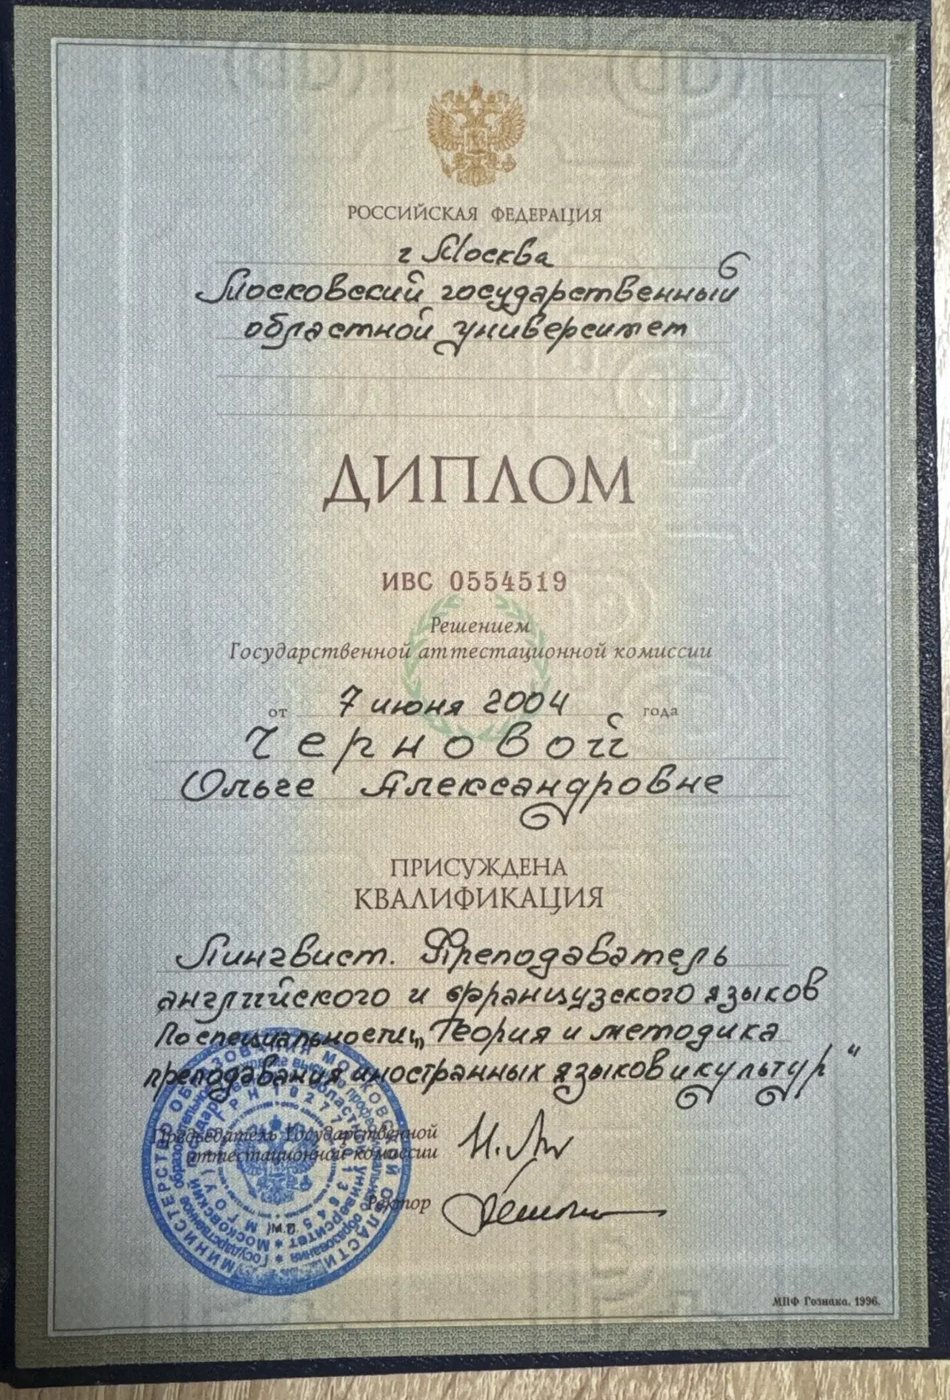
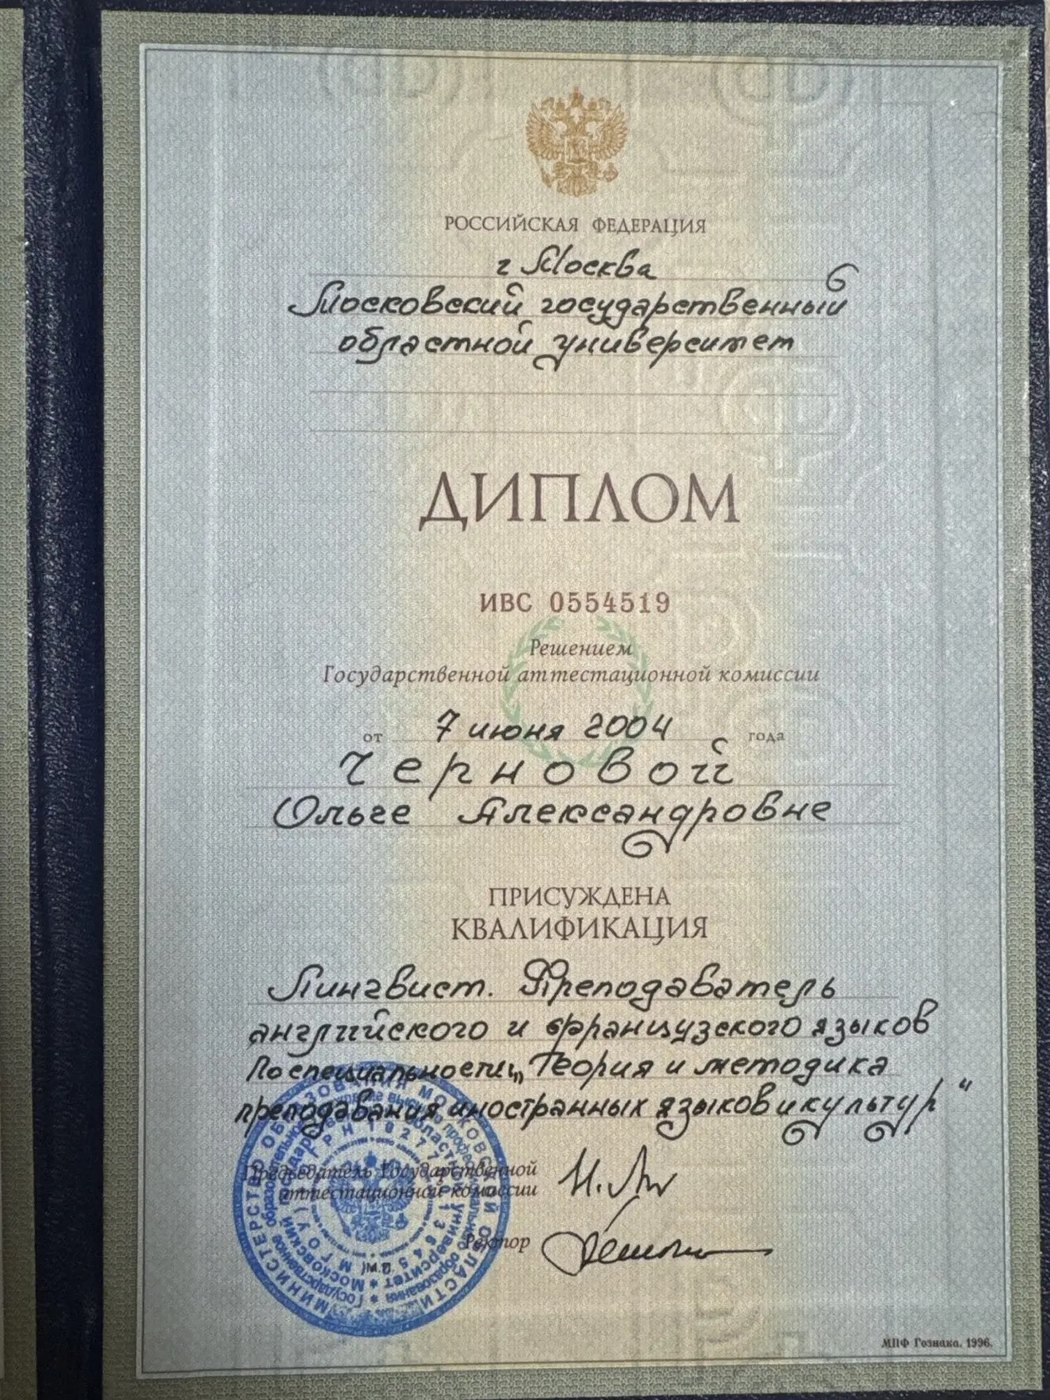
Add files via upload

diff --git a/index.html b/index.html
@@ -229,7 +229,7 @@ section{position:relative}
 .slider{position:relative;display:grid}
 .slide{grid-area:1/1;opacity:0;visibility:hidden;transition:opacity 1s var(--ease),visibility 1s}
 .slide.active{opacity:1;visibility:visible}
-.slide blockquote{margin:0;font-family:var(--serif);font-weight:300;font-size:clamp(26px,3vw,44px);line-height:1.3;max-width:1080px}
+.slide blockquote{margin:0;font-family:var(--serif);font-weight:300;font-size:clamp(24px,2.5vw,38px);line-height:1.3;max-width:1080px}
 .slide blockquote::before{content:"“";display:block;font-size:1.9em;line-height:.6;color:var(--brass);height:.45em}
 .slide .who{margin-top:34px;font-size:13px;letter-spacing:.16em;text-transform:uppercase}
 .slide .who span{color:var(--muted);margin-left:10px}
@@ -240,6 +240,25 @@ section{position:relative}
 .slider__bar{flex:1;height:1px;background:var(--line);position:relative;max-width:360px}
 .slider__bar i{position:absolute;inset:0;background:var(--brass);transform-origin:left;transform:scaleX(0)}
 .slider__bar i.run{animation:bar 8s linear forwards}
+.slider__nav .slider__add{margin-left:auto;width:auto;height:auto;border-radius:0;display:inline-flex;border-color:var(--forest);color:var(--forest)}
+.slider__nav .slider__add:hover{background:transparent;color:var(--ivory);border-color:var(--brass)}
+.rmodal{position:fixed;inset:0;z-index:100;background:rgba(14,20,18,.82);display:grid;place-items:center;padding:24px;overflow-y:auto;opacity:0;visibility:hidden;transition:opacity .5s var(--ease),visibility .5s}
+.rmodal.open{opacity:1;visibility:visible}
+.rmodal__box{position:relative;width:100%;max-width:560px;margin:auto;transform:translateY(24px);transition:transform .7s var(--ease)}
+.rmodal.open .rmodal__box{transform:none}
+.rmodal__close{position:absolute;top:18px;right:20px;width:40px;height:40px;font-size:16px;color:var(--muted);transition:color .4s}
+.rmodal__close:hover{color:var(--ink)}
+.rmodal__box>.rmodal__hint{margin:-10px 0 18px;font-size:13px;color:var(--muted)}
+.rmodal__box>.rmodal__hint.err{color:#a4452c}
+.rate-in{border:0;margin:0 0 18px;padding:0}
+.rate-in legend{padding:0;font-size:11.5px;letter-spacing:.14em;text-transform:uppercase;color:var(--brass)}
+.rate-in__stars{display:inline-flex;flex-direction:row-reverse;gap:6px;margin-top:8px}
+.rate-in__stars input{position:absolute;opacity:0;pointer-events:none}
+.rate-in__stars label{font-size:32px;line-height:1;color:var(--line);cursor:pointer;transition:color .3s}
+.rate-in__stars input:checked~label{color:var(--brass)}
+.rate-in__stars:hover input~label{color:var(--line)}
+.rate-in__stars input+label:hover,.rate-in__stars input+label:hover~label{color:var(--brass)}
+.rate-in__stars input:focus-visible+label{outline:1px solid var(--brass);outline-offset:2px}
 @keyframes bar{to{transform:scaleX(1)}}
 
 /* ---------- pricing ---------- */
@@ -355,7 +374,8 @@ section{position:relative}
   .prices li{flex-wrap:wrap;gap:4px 12px}
   .prices .dots{display:none}
   .prices .pr{width:100%}
-  .slider__nav{gap:16px}
+  .slider__nav{gap:16px;flex-wrap:wrap}
+  .slider__nav .slider__add{margin-left:0;width:100%;justify-content:center}
 }
 @media (max-width:560px){
   .creds__docs{grid-template-columns:1fr}
@@ -456,7 +476,7 @@ section{position:relative}
 <section class="band">
   <div class="wrap stats">
     <div class="stat rv"><b data-count="25">0</b><span>лет преподавательской практики</span></div>
-    <div class="stat rv rv-d1"><b data-count="4.9" data-dec="2">0</b><span>средняя оценка по отзывам учеников</span></div>
+    <div class="stat rv rv-d1"><b data-count="5" data-dec="1" id="statAvg">0</b><span>средняя оценка по отзывам учеников</span></div>
     <div class="stat rv rv-d2"><b>к.ф.н.</b><span>кандидат филологических наук с&nbsp;2009 года</span></div>
     <div class="stat rv rv-d3"><b data-count="9">0</b><span>программ — от YLE до TOEFL</span></div>
   </div>
@@ -538,23 +558,57 @@ section{position:relative}
   <div class="wrap">
     <div class="reviews__head">
       <div><span class="eyebrow rv">Отзывы</span><h2 class="rv rv-d1" style="margin-top:22px">Слово <em>ученикам</em></h2></div>
-      <div class="rating rv rv-d2"><b>4,90</b><div><div class="stars">★★★★★</div><small>средняя оценка<br>по 20 отзывам учеников</small></div></div>
+      <div class="rating rv rv-d2"><b id="rateAvg">5,0</b><div><div class="stars" id="rateStars">★★★★★</div><small>средняя оценка<br>по <span id="rateNum">5</span> <span id="rateWord">отзывам</span> учеников</small></div></div>
     </div>
     <div class="slider rv" id="slider">
-      <div class="slide active"><blockquote>Уроки проходят всегда в&nbsp;положительном настрое, в&nbsp;комфортной обстановке. Ребёнку нравится общение с&nbsp;педагогом, знания он получает в&nbsp;лёгкой, доступной форме — и&nbsp;это уже положительно отражается на успеваемости в&nbsp;школе.</blockquote><div class="who">Наталия <span>Английский язык</span></div></div>
-      <div class="slide"><blockquote>Преподаватель грамотный, ребёнку было комфортно заниматься. Мы считаем, что она внесла очень хороший вклад в&nbsp;результат. Её личные и&nbsp;профессиональные качества — на высоком уровне.</blockquote><div class="who">Елена <span>Подготовка к ЕГЭ</span></div></div>
-      <div class="slide"><blockquote>Она отзывчива, профессиональна, у&nbsp;неё есть стремление сделать всё как можно лучше. Методы преподавания очень современные — много разговорной речи, аудирование. Мой ребёнок начал разговаривать на английском.</blockquote><div class="who">Ольга <span>Английский язык</span></div></div>
-      <div class="slide"><blockquote>Ольга Александровна — позитивный и&nbsp;доброжелательный человек, легко находит общий язык с&nbsp;ребёнком. Дочь говорит, что занятия проходят необычно и&nbsp;интересно. Будем продолжать обучение.</blockquote><div class="who">Юлия <span>Английский язык</span></div></div>
-      <div class="slide"><blockquote>Уроки проходят продуктивно, педагог приносит разные книги, методические пособия, аудиоматериалы. Основной упор — на разговорный уровень. Оцениваю работу Ольги Александровны на «отлично».</blockquote><div class="who">Карина <span>Английский язык</span></div></div>
+      <div class="slide active" data-rating="5"><blockquote>Абсолютно хорошее впечатление. Преподаватель грамотный, ребёнку было комфортно заниматься. Если ребёнок уставал, буквально за <span style="white-space:nowrap">5–10 минут</span> педагогу удавалось снова включить её в&nbsp;учебный процесс. Мы считаем, что она внесла очень хороший вклад в&nbsp;результат. Её личные и&nbsp;профессиональные качества — на высоком уровне.</blockquote><div class="who">Елена <span>Подготовка к ЕГЭ</span></div></div>
+      <div class="slide" data-rating="5"><blockquote>Ольга Александровна в&nbsp;хорошем контакте и&nbsp;со мной, и&nbsp;с&nbsp;дочерью. Уроки проходят продуктивно, педагог приносит разные книги, методические пособия, аудиоматериалы. Мы занимаемся не по школьной программе — основной упор на разговорный уровень. Оцениваю работу Ольги Александровны на «отлично».</blockquote><div class="who">Карина</div></div>
+      <div class="slide" data-rating="5"><blockquote>Нам очень нравятся занятия с&nbsp;Ольгой Александровной. Она — позитивный и&nbsp;доброжелательный человек, легко находит общий язык с&nbsp;ребёнком. Дочь учится воспринимать текст на слух, закрепляет грамматику и&nbsp;говорит, что занятия проходят необычно и&nbsp;интересно. Будем продолжать обучение.</blockquote><div class="who">Юлия</div></div>
+      <div class="slide" data-rating="5"><blockquote>Очень довольны работой репетитора! Она отзывчива, профессиональна, у&nbsp;неё есть стремление сделать всё как можно лучше. Методы преподавания очень современные — много разговорной речи, аудирование. Мой ребёнок начал разговаривать на английском.</blockquote><div class="who">Ольга</div></div>
+      <div class="slide" data-rating="5"><blockquote>Ольга Александровна вызывает у&nbsp;меня только самые положительные эмоции! Уроки проходят всегда в&nbsp;положительном настрое, в&nbsp;комфортной обстановке. Ребёнку нравится общение с&nbsp;педагогом, знания он получает в&nbsp;лёгкой, доступной форме — и&nbsp;это уже положительно отражается на успеваемости в&nbsp;школе.</blockquote><div class="who">Наталия</div></div>
     </div>
     <div class="slider__nav rv">
       <button type="button" id="prev" aria-label="Предыдущий отзыв">←</button>
       <button type="button" id="next" aria-label="Следующий отзыв">→</button>
       <span class="slider__count" id="count">01 / 05</span>
       <div class="slider__bar"><i id="bar"></i></div>
+      <button type="button" class="btn slider__add" id="reviewOpen">Оставить отзыв</button>
     </div>
   </div>
 </section>
+
+<div class="rmodal" id="reviewModal" aria-hidden="true" role="dialog" aria-modal="true" aria-labelledby="rTitle">
+  <form class="form rmodal__box" id="reviewForm" novalidate data-lenis-prevent>
+    <button type="button" class="rmodal__close" id="reviewClose" aria-label="Закрыть">✕</button>
+    <h3 id="rTitle">Ваш отзыв</h3>
+    <p>Отзыв придёт Ольге и появится на сайте после проверки.</p>
+    <fieldset class="rate-in">
+      <legend>Оценка</legend>
+      <div class="rate-in__stars">
+        <input type="radio" name="rate" id="r5" value="5" checked><label for="r5" title="5 из 5">★</label>
+        <input type="radio" name="rate" id="r4" value="4"><label for="r4" title="4 из 5">★</label>
+        <input type="radio" name="rate" id="r3" value="3"><label for="r3" title="3 из 5">★</label>
+        <input type="radio" name="rate" id="r2" value="2"><label for="r2" title="2 из 5">★</label>
+        <input type="radio" name="rate" id="r1" value="1"><label for="r1" title="1 из 5">★</label>
+      </div>
+    </fieldset>
+    <div class="field"><input id="r-name" name="name" placeholder=" " required autocomplete="given-name"><label for="r-name">Ваше имя</label></div>
+    <div class="field">
+      <select id="r-prog" name="prog">
+        <option>Английский язык</option>
+        <option>Разговорный английский</option>
+        <option>Подготовка к ЕГЭ / ОГЭ</option>
+        <option>YLE / A2 Key</option>
+        <option>B2 First / TOEFL</option>
+        <option>Олимпиады</option>
+      </select><label for="r-prog">Программа</label>
+    </div>
+    <div class="field"><textarea id="r-text" name="text" placeholder=" " rows="4" required minlength="60"></textarea><label for="r-text">Ваш отзыв</label></div>
+    <p class="rmodal__hint" id="rHint">Расскажите подробнее — хотя бы пару предложений.</p>
+    <button class="btn btn--solid" type="submit">Отправить отзыв <span class="arr">→</span></button>
+    <div class="form__ok"><span id="rOkText">Отзыв готов.</span> <a id="rTgLink" href="#" target="_blank" rel="noopener" class="link">Отправить в Telegram →</a><br><a id="rMailLink" href="#" class="form__alt">или отправить на почту</a></div>
+  </form>
+</div>
 
 <!-- ============ PRICING ============ -->
 <section class="pricing" id="pricing">
@@ -762,6 +816,17 @@ const CONTACT = {
 
   /* testimonials slider */
   const slides = $$('.slide'), bar = $('#bar'), cnt = $('#count');
+
+  /* average rating from the published reviews (data-rating on each slide) */
+  const rates = slides.map(s => +s.dataset.rating).filter(Boolean);
+  if (rates.length) {
+    const n = rates.length, avg = rates.reduce((a, b) => a + b, 0) / n, full = Math.round(avg);
+    $('#rateAvg').textContent = avg.toFixed(1).replace('.', ',');
+    $('#rateStars').textContent = '★'.repeat(full) + '☆'.repeat(5 - full);
+    $('#rateNum').textContent = n;
+    $('#rateWord').textContent = n % 10 === 1 && n % 100 !== 11 ? 'отзыву' : 'отзывам';
+    $('#statAvg').dataset.count = avg.toFixed(1);
+  }
   let cur = 0, timer;
   const pad = n => String(n).padStart(2, '0');
   const show = i => {
@@ -802,6 +867,34 @@ const CONTACT = {
     try { await navigator.clipboard.writeText(text); copied = true; } catch (_) {}
     $('#okText').textContent = copied ? 'Текст заявки скопирован — вставьте его в чат.' : 'Заявка готова.';
     e.target.classList.add('sent');
+  });
+
+  /* review form → sent to Olga for moderation (Telegram or email) */
+  const rm = $('#reviewModal'), rf = $('#reviewForm'), hint = $('#rHint'), hintText = hint.textContent;
+  const openReview = on => {
+    rm.classList.toggle('open', on); rm.setAttribute('aria-hidden', !on);
+    if (on) { lenis?.stop(); setTimeout(() => rf.elements.name.focus(), 300); }
+    else { lenis?.start(); $('#reviewOpen').focus(); }
+  };
+  $('#reviewOpen').addEventListener('click', () => openReview(true));
+  $('#reviewClose').addEventListener('click', () => openReview(false));
+  rm.addEventListener('click', e => { if (e.target === rm) openReview(false); });
+  addEventListener('keydown', e => { if (e.key === 'Escape' && rm.classList.contains('open')) openReview(false); });
+  rf.addEventListener('submit', async e => {
+    e.preventDefault();
+    const f = rf.elements, name = f.name.value.trim(), body = f.text.value.trim();
+    if (!name) { f.name.focus(); return; }
+    if (body.length < 60) {
+      hint.textContent = 'Отзыв слишком короткий — добавьте пару предложений.'; hint.classList.add('err'); f.text.focus(); return;
+    }
+    hint.textContent = hintText; hint.classList.remove('err');
+    const rate = +f.rate.value;
+    const text = `Здравствуйте, Ольга! Хочу оставить отзыв.\nИмя: ${name}\nПрограмма: ${f.prog.value}\nОценка: ${rate} из 5\nОтзыв: ${body}`;
+    $('#rTgLink').href = 'https://t.me/' + CONTACT.telegram;
+    $('#rMailLink').href = 'mailto:' + CONTACT.email + '?subject=' + encodeURIComponent('Отзыв с сайта') + '&body=' + encodeURIComponent(text);
+    $('#rOkText').textContent = 'Спасибо! Отзыв готов к отправке.';
+    rf.classList.add('sent');
+    try { await navigator.clipboard.writeText(text); $('#rOkText').textContent = 'Спасибо! Текст отзыва скопирован — вставьте его в чат.'; } catch (_) {}
   });
 
   /* intro */
